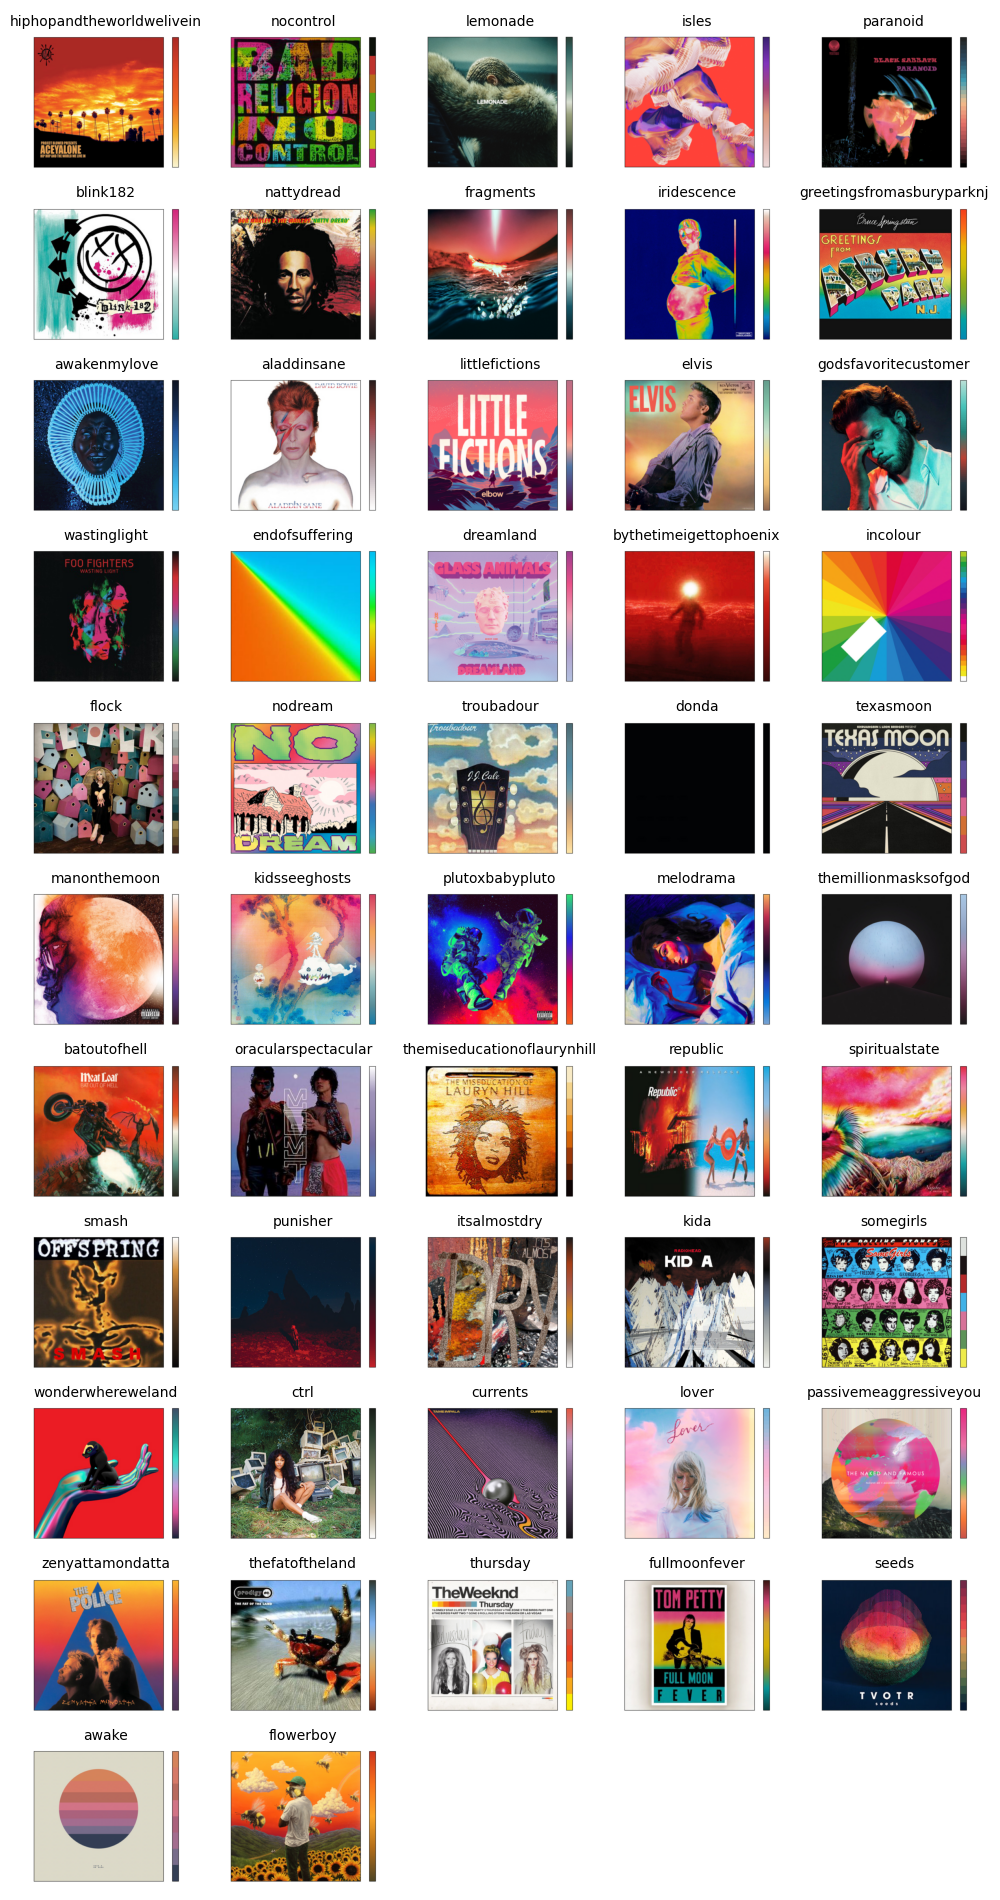
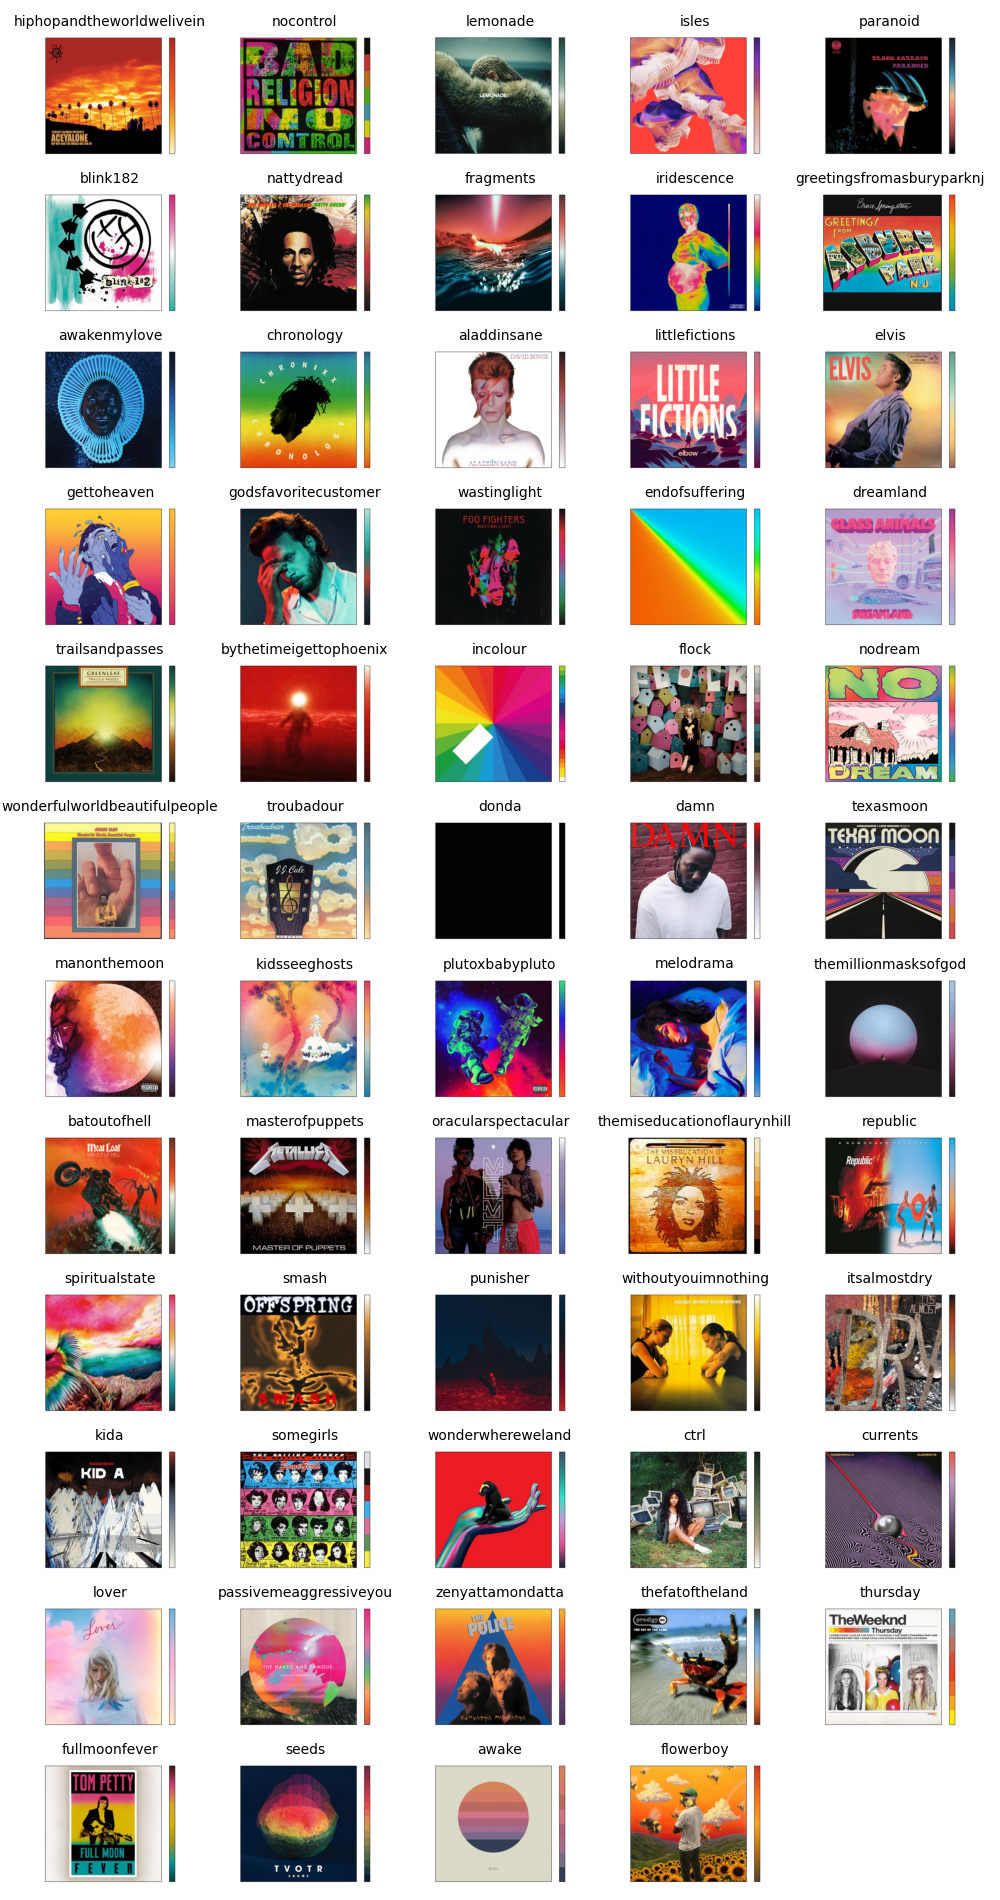
add cmaps masterofpuppets, trailsandpasses, chronology, damn, wonderfulworldbeautifulpeople, withoutyouimnothing, and gettoheaven

diff --git a/__init__.py b/__init__.py
@@ -21,52 +21,59 @@ def get_music_cmap(cmapname,ncols):
     cm=LinearSegmentedColormap.from_list(cmapname,cmarray,N=ncols)
     return cm
 
-kida                      = get_music_cmap('kida',128)
-manonthemoon              = get_music_cmap('manonthemoon',128)
-punisher                  = get_music_cmap('punisher',128)
-fullmoonfever             = get_music_cmap('fullmoonfever',128)
-wastinglight              = get_music_cmap('wastinglight',128)
-lemonade                  = get_music_cmap('lemonade',128)
-spiritualstate            = get_music_cmap('spiritualstate',128)
-somegirls                 = get_music_cmap('somegirls',7)
-currents                  = get_music_cmap('currents',128)
-nodream                   = get_music_cmap('nodream',128)
-skadream                  = nodream
-donda                     = get_music_cmap('donda',2)
-incolour                  = get_music_cmap('incolour',25)
-melodrama                 = get_music_cmap('melodrama',128)
-godsfavoritecustomer      = get_music_cmap('godsfavoritecustomer',128)
-aladdinsane               = get_music_cmap('aladdinsane',128)
-dreamland                 = get_music_cmap('dreamland',128)
-seeds                     = get_music_cmap('seeds',16)
-wonderwhereweland         = get_music_cmap('wonderwhereweland',128)
-flowerboy                 = get_music_cmap('flowerboy',128)
-awake                     = get_music_cmap('awake',8)
-nattydread                = get_music_cmap('nattydread',128)
-lover                     = get_music_cmap('lover',128)
-awakenmylove              = get_music_cmap('awakenmylove',128)
-fragments                 = get_music_cmap('fragments',128)
-smash                     = get_music_cmap('smash',128)
-littlefictions            = get_music_cmap('littlefictions',128)
-hiphopandtheworldwelivein = get_music_cmap('hiphopandtheworldwelivein',128)
-elvis                     = get_music_cmap('elvis',128)
-iridescence               = get_music_cmap('iridescence',128)
-thursday                  = get_music_cmap('thursday',128)
-zenyattamondatta          = get_music_cmap('zenyattamondatta',128)
-plutoxbabypluto           = get_music_cmap('plutoxbabypluto',128)
-endofsuffering            = get_music_cmap('endofsuffering',128)
-bythetimeigettophoenix    = get_music_cmap('bythetimeigettophoenix',128)
-texasmoon                 = get_music_cmap('texasmoon',7)
-ctrl                      = get_music_cmap('ctrl',128)
-nocontrol                 = get_music_cmap('nocontrol',7)
-batoutofhell              = get_music_cmap('batoutofhell',128)
-itsalmostdry              = get_music_cmap('itsalmostdry',128)
-passivemeaggressiveyou    = get_music_cmap('passivemeaggressiveyou',128)
-thefatoftheland           = get_music_cmap('thefatoftheland',128)
-paranoid                  = get_music_cmap('paranoid',32)
-kidsseeghosts             = get_music_cmap('kidsseeghosts',128)
-isles                     = get_music_cmap('isles',128)
-blink182                  = get_music_cmap('blink182',128)
-flock                     = get_music_cmap('flock',16)
-oracularspectacular       = get_music_cmap('oracularspectacular',128)
-troubadour                = get_music_cmap('troubadour',128)
+kida                          = get_music_cmap('kida',128)
+manonthemoon                  = get_music_cmap('manonthemoon',128)
+punisher                      = get_music_cmap('punisher',128)
+fullmoonfever                 = get_music_cmap('fullmoonfever',128)
+wastinglight                  = get_music_cmap('wastinglight',128)
+lemonade                      = get_music_cmap('lemonade',128)
+spiritualstate                = get_music_cmap('spiritualstate',128)
+somegirls                     = get_music_cmap('somegirls',7)
+currents                      = get_music_cmap('currents',128)
+nodream                       = get_music_cmap('nodream',128)
+skadream                      = nodream
+donda                         = get_music_cmap('donda',2)
+incolour                      = get_music_cmap('incolour',25)
+melodrama                     = get_music_cmap('melodrama',128)
+godsfavoritecustomer          = get_music_cmap('godsfavoritecustomer',128)
+aladdinsane                   = get_music_cmap('aladdinsane',128)
+dreamland                     = get_music_cmap('dreamland',128)
+seeds                         = get_music_cmap('seeds',16)
+wonderwhereweland             = get_music_cmap('wonderwhereweland',128)
+flowerboy                     = get_music_cmap('flowerboy',128)
+awake                         = get_music_cmap('awake',8)
+nattydread                    = get_music_cmap('nattydread',128)
+lover                         = get_music_cmap('lover',128)
+awakenmylove                  = get_music_cmap('awakenmylove',128)
+fragments                     = get_music_cmap('fragments',128)
+smash                         = get_music_cmap('smash',128)
+littlefictions                = get_music_cmap('littlefictions',128)
+hiphopandtheworldwelivein     = get_music_cmap('hiphopandtheworldwelivein',128)
+elvis                         = get_music_cmap('elvis',128)
+iridescence                   = get_music_cmap('iridescence',128)
+thursday                      = get_music_cmap('thursday',128)
+zenyattamondatta              = get_music_cmap('zenyattamondatta',128)
+plutoxbabypluto               = get_music_cmap('plutoxbabypluto',128)
+endofsuffering                = get_music_cmap('endofsuffering',128)
+bythetimeigettophoenix        = get_music_cmap('bythetimeigettophoenix',128)
+texasmoon                     = get_music_cmap('texasmoon',7)
+ctrl                          = get_music_cmap('ctrl',128)
+nocontrol                     = get_music_cmap('nocontrol',7)
+batoutofhell                  = get_music_cmap('batoutofhell',128)
+itsalmostdry                  = get_music_cmap('itsalmostdry',128)
+passivemeaggressiveyou        = get_music_cmap('passivemeaggressiveyou',128)
+thefatoftheland               = get_music_cmap('thefatoftheland',128)
+paranoid                      = get_music_cmap('paranoid',32)
+kidsseeghosts                 = get_music_cmap('kidsseeghosts',128)
+isles                         = get_music_cmap('isles',128)
+blink182                      = get_music_cmap('blink182',128)
+flock                         = get_music_cmap('flock',16)
+oracularspectacular           = get_music_cmap('oracularspectacular',128)
+troubadour                    = get_music_cmap('troubadour',128)
+masterofpuppets               = get_music_cmap('masterofpuppets',128)
+trailsandpasses               = get_music_cmap('trailsandpasses',128)
+chronology                    = get_music_cmap('chronology',128)
+damn                          = get_music_cmap('damn',128)
+wonderfulworldbeautifulpeople = get_music_cmap('wonderfulworldbeautifulpeople',12)
+withoutyouimnothing           = get_music_cmap('withoutyouimnothing',128)
+gettoheaven                   = get_music_cmap('gettoheaven',128)
